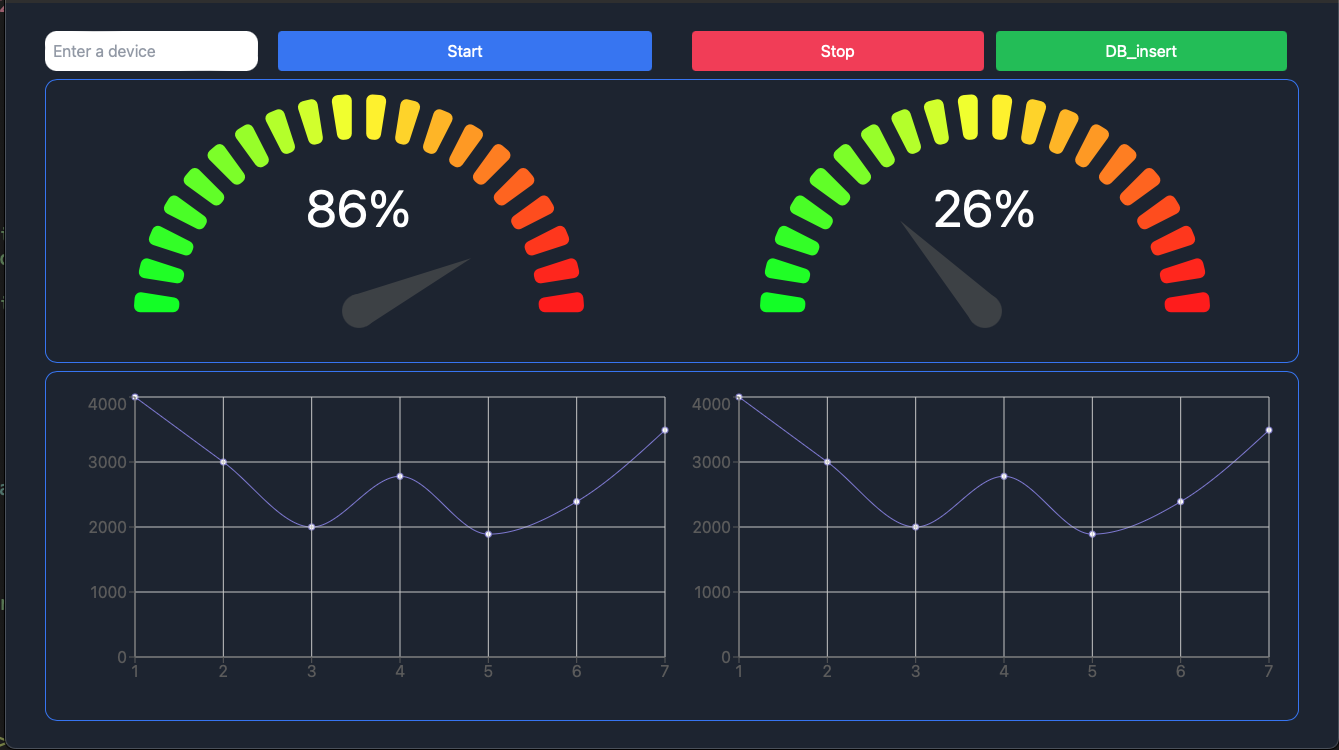
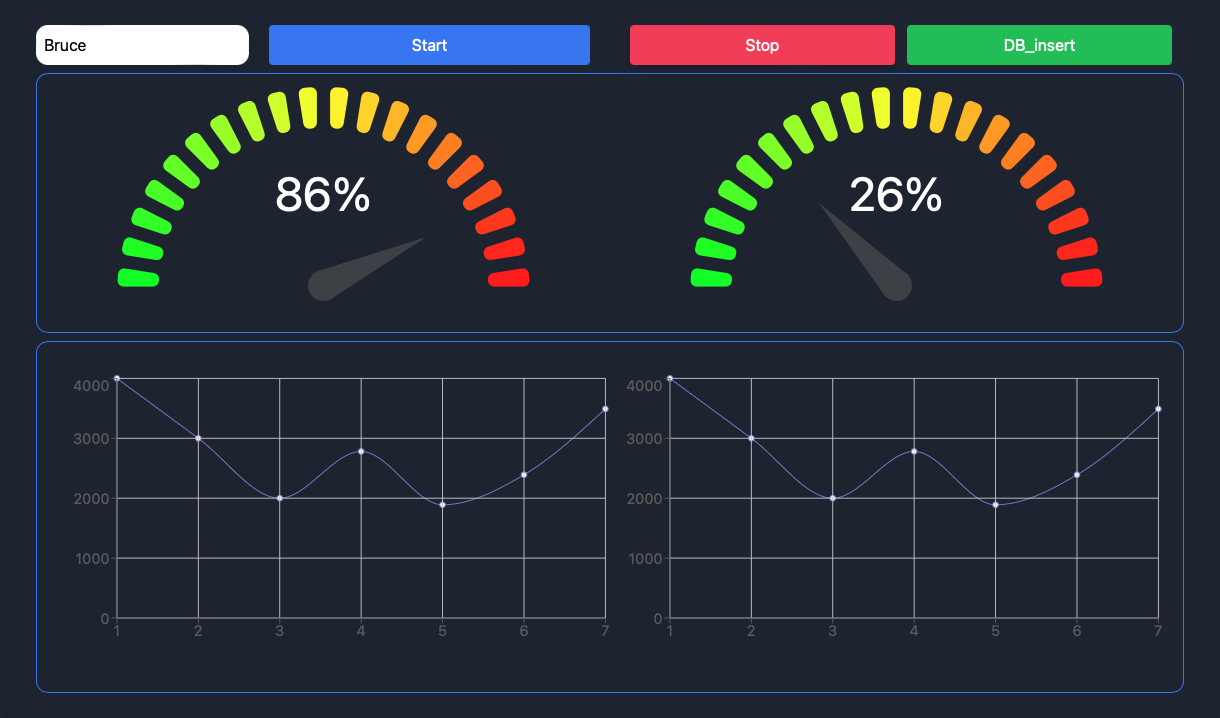
refactoring db process and update readme

diff --git a/src/App.tsx b/src/App.tsx
@@ -26,7 +26,7 @@ function App() {
   }
 
   async function onInsert() {
-    await invoke("insert_data", { name: "test", age: 32 });
+    await invoke("insert_data", { entry: { name, age: 32 } });
   }
 
   useEffect(() => {
@@ -46,7 +46,7 @@ function App() {
           }}
         >
           <input
-            className="p-2 rounded-xl"
+            className="p-2 rounded-xl text-black"
             onChange={(e) => setName(e.currentTarget.value)}
             placeholder="Enter a device"
           />

diff --git a/src-tauri/src/db.rs b/src-tauri/src/db.rs
@@ -34,15 +34,8 @@ pub(crate) async fn connect() -> Pool<MySql> {
 #[tauri::command]
 pub(crate) async fn insert_data(
     state: State<'_, MySqlPoolWrapper>,
-    name: String,
-    age: i32,
+    entry: DataEntry,
 ) -> Result<(), String> {
-    println!("insert_data: {} {}", &name, age);
-    println!("state: {:?}", &state.pool);
-    let entry = DataEntry {
-        name: name.to_string(),
-        age,
-    };
     let res = sqlx::query("INSERT INTO data (name, age) VALUES (?, ?)")
         .bind(&entry.name)
         .bind(entry.age)
